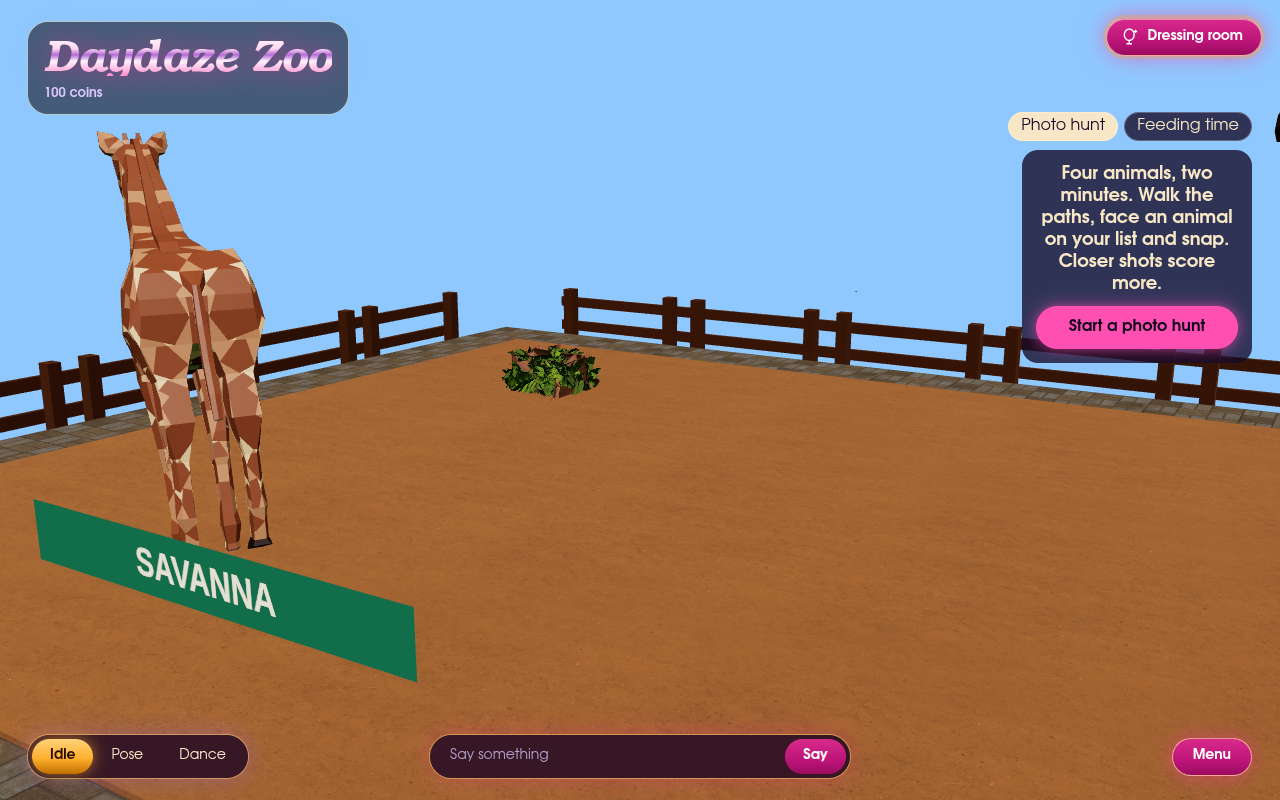
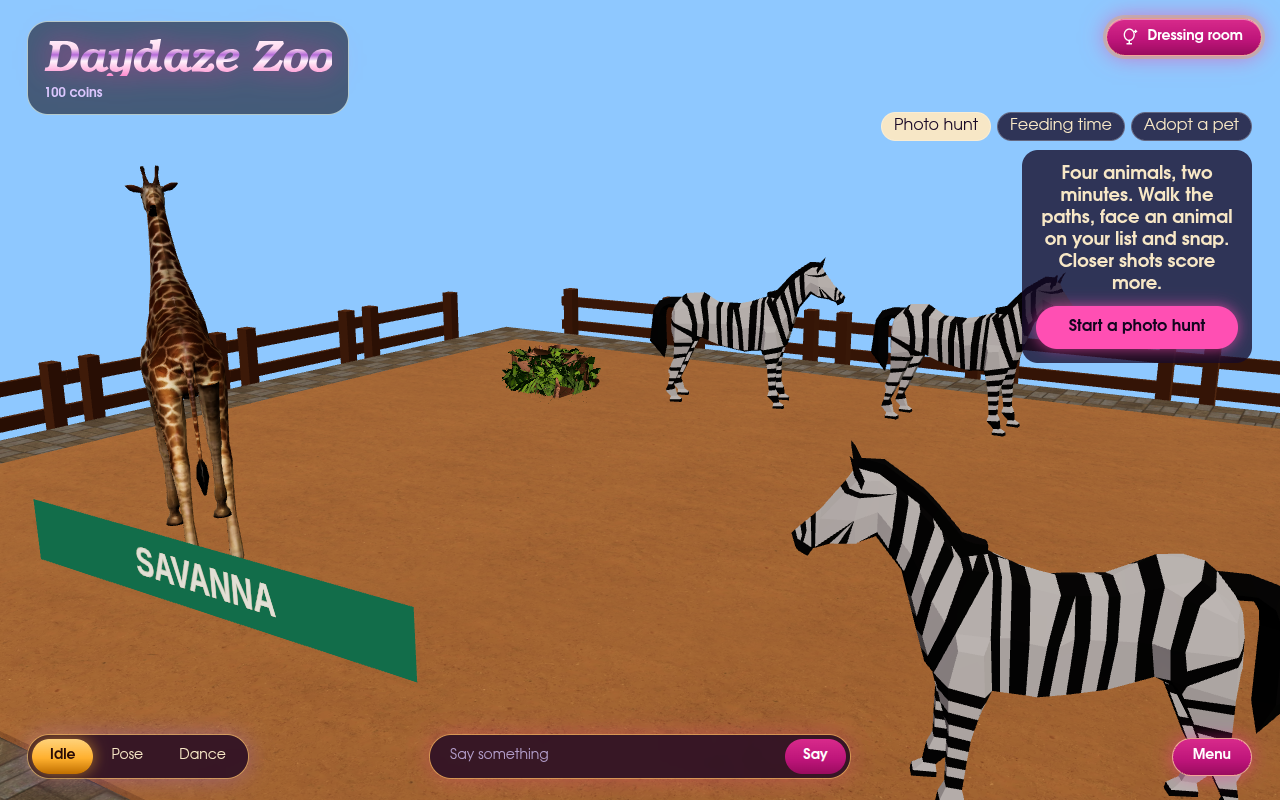
fix(creatures): size skinned models from their posed bones; re-shoot the zoo

diff --git a/src/client/creatures/Creature.tsx b/src/client/creatures/Creature.tsx
@@ -87,6 +87,8 @@ export function Creature({
     if (idle) {
       idle.play();
       mixer.update(0);
+      // bone matrices follow the posed bones, not the bind pose
+      root.updateMatrixWorld(true);
       root.traverse((o) => {
         if (o instanceof THREE.SkinnedMesh) {
           o.skeleton.update();
@@ -136,7 +138,12 @@ export function Creature({
       // no walk clip of its own: sway it along instead
       const still = !rig.actions.has("walk");
       const walking = still && !calm && (p.clip === "walk" || p.clip === "run");
-      const bow = still && (p.clip === "graze" || p.clip === "eat") ? 0.4 : 0;
+      const bow =
+        still && (p.clip === "graze" || p.clip === "eat")
+          ? rig.actions.size === 0
+            ? 0.4
+            : 0.12
+          : 0;
       const k = Math.min(1, dt * 4);
       const sitting = p.clip === "sit";
       const stride = Math.sin(s.t * STRIDE);
